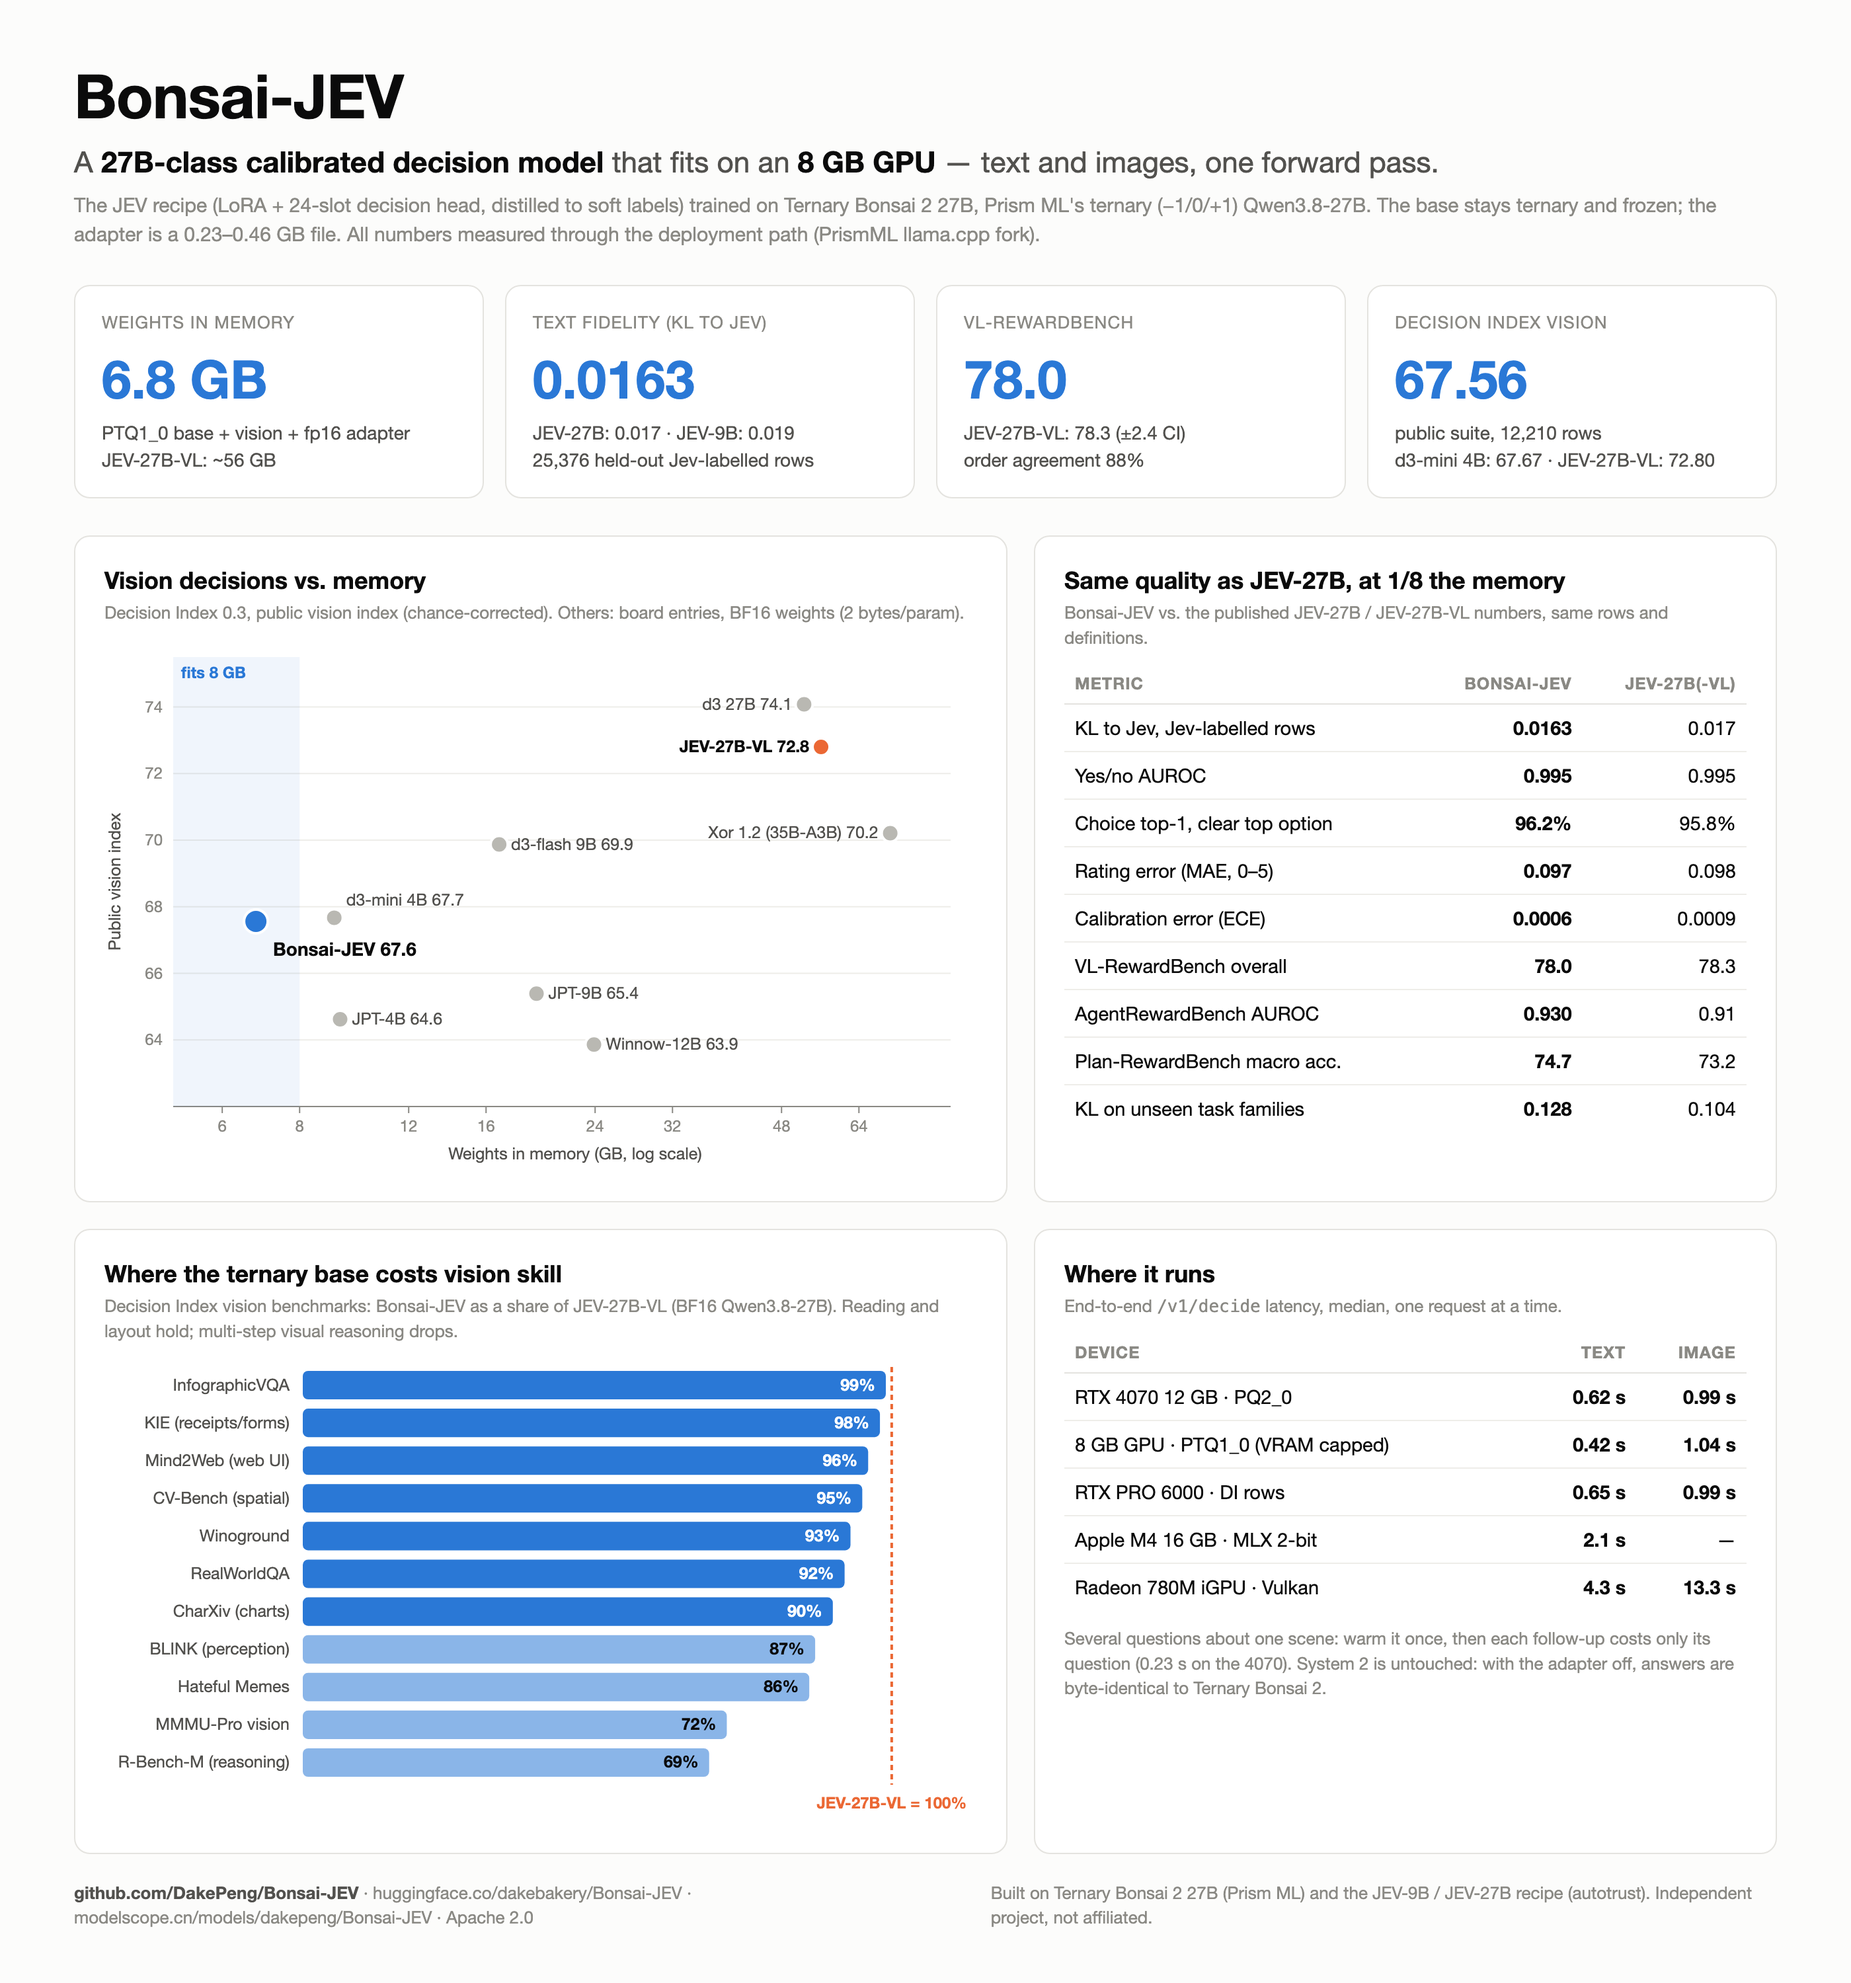
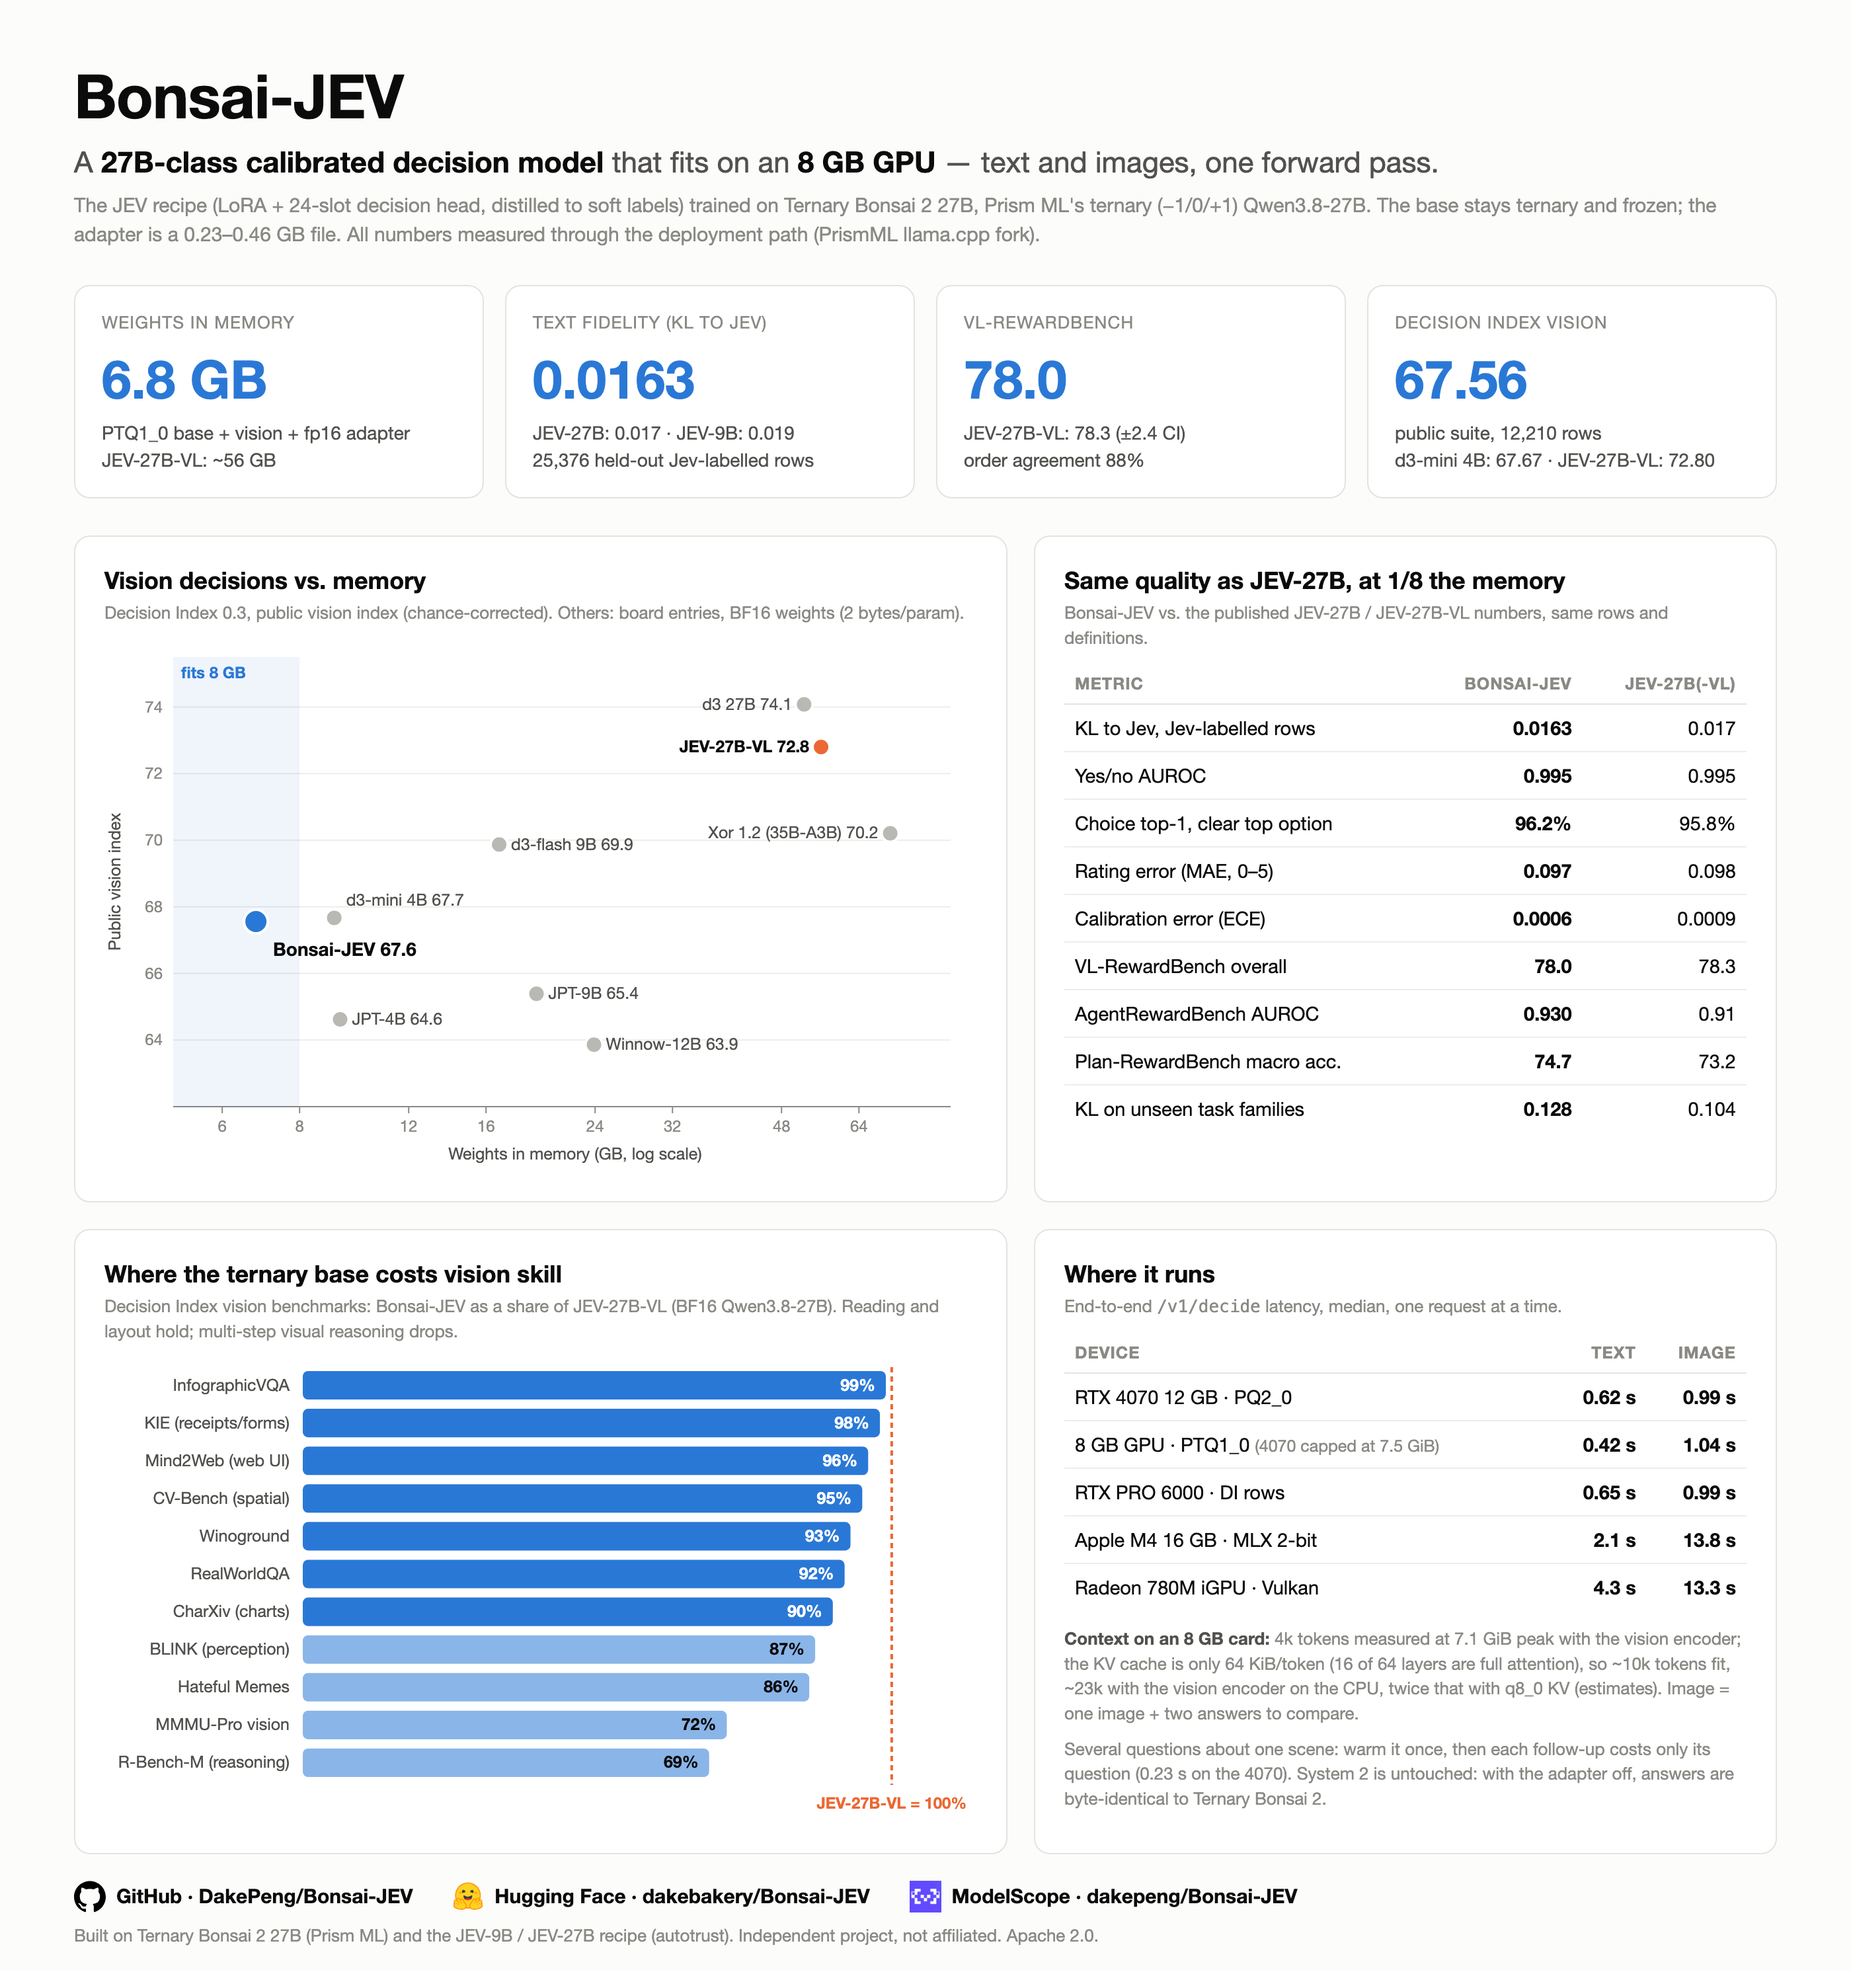
Overview images: English at the top of README and the HF card, Chinese at the top of the ModelScope card

diff --git a/assets/overview.html b/assets/overview.html
@@ -35,7 +35,10 @@
   tr:last-child td { border-bottom: 0; }
   .dot { display: inline-block; width: 10px; height: 10px; border-radius: 50%; margin-right: 6px; vertical-align: 0; }
   svg text { font-family: inherit; }
-  .foot { display: flex; justify-content: space-between; color: var(--ink-3); font-size: 13px; margin-top: 18px; }
+  .foot { color: var(--ink-3); font-size: 13px; margin-top: 18px; }
+  .links { display: flex; gap: 30px; font-size: 15px; color: var(--ink); font-weight: 600; margin-bottom: 8px; }
+  .links span { display: flex; align-items: center; gap: 8px; white-space: nowrap; }
+  .links img { width: 24px; height: 24px; object-fit: contain; }
   .foot b { color: var(--ink-2); }
 </style>
 </head>
@@ -88,18 +91,19 @@
       <table>
         <tr><th>Device</th><th>Text</th><th>Image</th></tr>
         <tr><td>RTX 4070 12 GB &middot; PQ2_0</td><td class="ours">0.62 s</td><td class="ours">0.99 s</td></tr>
-        <tr><td>8 GB GPU &middot; PTQ1_0 (VRAM capped)</td><td class="ours">0.42 s</td><td class="ours">1.04 s</td></tr>
+        <tr><td>8 GB GPU &middot; PTQ1_0 <span style="color:#8a8984;font-size:12.5px">(4070 capped at 7.5 GiB)</span></td><td class="ours">0.42 s</td><td class="ours">1.04 s</td></tr>
         <tr><td>RTX PRO 6000 &middot; DI rows</td><td class="ours">0.65 s</td><td class="ours">0.99 s</td></tr>
-        <tr><td>Apple M4 16 GB &middot; MLX 2-bit</td><td class="ours">2.1 s</td><td>&mdash;</td></tr>
+        <tr><td>Apple M4 16 GB &middot; MLX 2-bit</td><td class="ours">2.1 s</td><td class="ours">13.8 s</td></tr>
         <tr><td>Radeon 780M iGPU &middot; Vulkan</td><td class="ours">4.3 s</td><td class="ours">13.3 s</td></tr>
       </table>
-      <p class="note" style="margin:12px 0 0">Several questions about one scene: warm it once, then each follow-up costs only its question (0.23 s on the 4070). System&nbsp;2 is untouched: with the adapter off, answers are byte-identical to Ternary Bonsai 2.</p>
+      <p class="note" style="margin:12px 0 0"><b style="color:#52514e">Context on an 8 GB card:</b> 4k tokens measured at 7.1 GiB peak with the vision encoder; the KV cache is only 64 KiB/token (16 of 64 layers are full attention), so ~10k tokens fit, ~23k with the vision encoder on the CPU, twice that with q8_0 KV (estimates). Image = one image + two answers to compare.</p>
+      <p class="note" style="margin:8px 0 0">Several questions about one scene: warm it once, then each follow-up costs only its question (0.23 s on the 4070). System&nbsp;2 is untouched: with the adapter off, answers are byte-identical to Ternary Bonsai 2.</p>
     </div>
   </div>
 
   <div class="foot">
-    <div><b>github.com/DakePeng/Bonsai-JEV</b> &middot; huggingface.co/dakebakery/Bonsai-JEV &middot; modelscope.cn/models/dakepeng/Bonsai-JEV &middot; Apache 2.0</div>
-    <div>Built on Ternary Bonsai 2 27B (Prism ML) and the JEV-9B / JEV-27B recipe (autotrust). Independent project, not affiliated.</div>
+    <div class="links"><span><img src="logos/github.svg">GitHub &middot; DakePeng/Bonsai-JEV</span><span><img src="logos/huggingface.svg">Hugging Face &middot; dakebakery/Bonsai-JEV</span><span><img src="logos/modelscope.png">ModelScope &middot; dakepeng/Bonsai-JEV</span></div>
+    <div>Built on Ternary Bonsai 2 27B (Prism ML) and the JEV-9B / JEV-27B recipe (autotrust). Independent project, not affiliated. Apache 2.0.</div>
   </div>
 </div>
 

diff --git a/README.md b/README.md
@@ -1,5 +1,7 @@
 # Bonsai-JEV
 
+![Bonsai-JEV at a glance](assets/overview.png)
+
 **A calibrated, image-capable 27B decision model that fits on an 8 GB GPU.** The [JEV](https://huggingface.co/autotrust/JEV-27B) recipe (LoRA + 24-slot decision head, distilled to soft labels) trained on top of [Ternary Bonsai 2 27B](https://huggingface.co/prism-ml/Ternary-Bonsai-2-27B-gguf), PrismML's ternary (−1/0/+1) compression of Qwen3.8-27B. The base stays ternary and frozen; the adapter is a separate file. One forward pass returns calibrated probabilities over the options of a typed question (yes/no, 0–5 score, or 2–16-way choice), with or without images.
 
 **Weights:** [Hugging Face · dakebakery/Bonsai-JEV](https://huggingface.co/dakebakery/Bonsai-JEV) · [ModelScope · dakepeng/Bonsai-JEV](https://modelscope.cn/models/dakepeng/Bonsai-JEV) (same files; ModelScope is faster from mainland China) · **Apple Silicon (MLX):** [Hugging Face · dakebakery/Bonsai-JEV-mlx](https://huggingface.co/dakebakery/Bonsai-JEV-mlx) · [ModelScope · dakepeng/Bonsai-JEV-mlx](https://modelscope.cn/models/dakepeng/Bonsai-JEV-mlx) · [中文说明](README.zh.md)

diff --git a/modelcard/modelscope/README.md b/modelcard/modelscope/README.md
@@ -24,6 +24,8 @@ tags:
 
 # Bonsai-JEV
 
+![Bonsai-JEV 一图流](https://www.modelscope.cn/models/dakepeng/Bonsai-JEV/resolve/master/assets/overview.zh.png)
+
 **8 GB 显卡就能跑、能看图、输出校准概率的 27B 决策模型。** 把 [JEV](https://modelscope.cn/models/autotrust/JEV-27B) 的配方（LoRA + 24 位决策头，用软标签蒸馏）训练在 [Ternary Bonsai 2 27B](https://modelscope.cn/models/prism-ml/Ternary-Bonsai-2-27B-gguf) 上。后者是 Prism ML 把 Qwen3.8-27B 压缩成三值的版本。对一个有类型的问题（是/否、0–5 打分、2–16 选 1）提问，状态里可以带图，一次前向就输出各选项的校准概率，不生成文字。
 
 **代码、训练配方和评测脚本：** [github.com/DakePeng/Bonsai-JEV](https://github.com/DakePeng/Bonsai-JEV) · 英文模型卡：[Hugging Face](https://huggingface.co/dakebakery/Bonsai-JEV)

diff --git a/modelcard/huggingface/README.md b/modelcard/huggingface/README.md
@@ -25,6 +25,8 @@ tags:
 
 # Bonsai-JEV
 
+![Bonsai-JEV at a glance](https://huggingface.co/dakebakery/Bonsai-JEV/resolve/main/assets/overview.png)
+
 **A calibrated, image-capable 27B decision model that fits on an 8 GB GPU.** The [JEV](https://huggingface.co/autotrust/JEV-27B) recipe (a LoRA plus a 24-slot decision head, distilled to soft labels) trained on [Ternary Bonsai 2 27B](https://huggingface.co/prism-ml/Ternary-Bonsai-2-27B-gguf), Prism ML's ternary compression of Qwen3.8-27B. Ask a typed question (yes/no, 0–5 score, or 2–16-way choice) about a state that can include images; one forward pass returns calibrated probabilities over the options. No text is generated.
 
 **Code, training recipe and evaluation scripts:** [github.com/DakePeng/Bonsai-JEV](https://github.com/DakePeng/Bonsai-JEV) · Mirror: [ModelScope](https://modelscope.cn/models/dakepeng/Bonsai-JEV)
